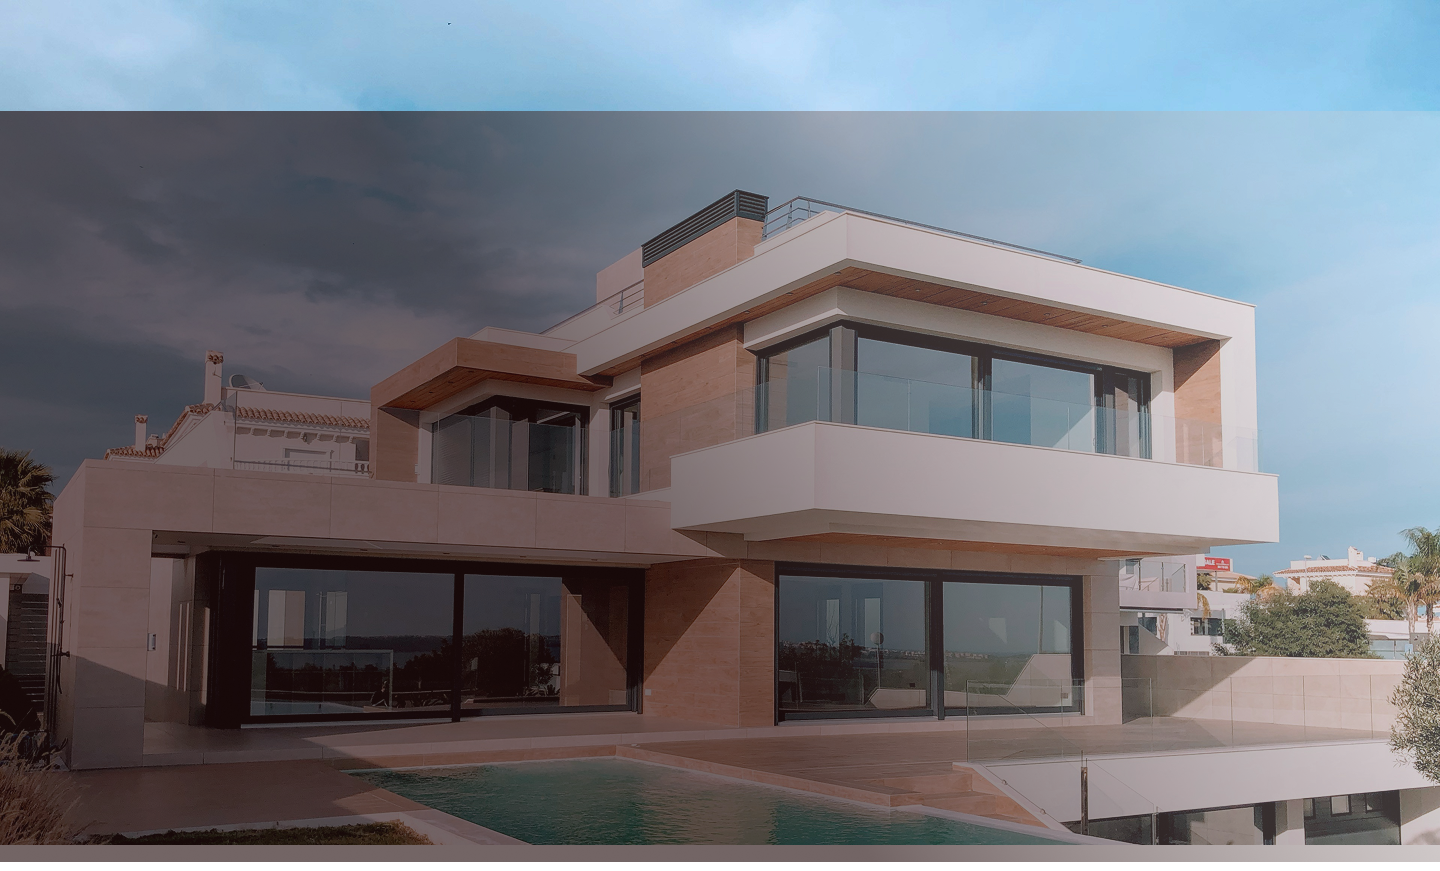
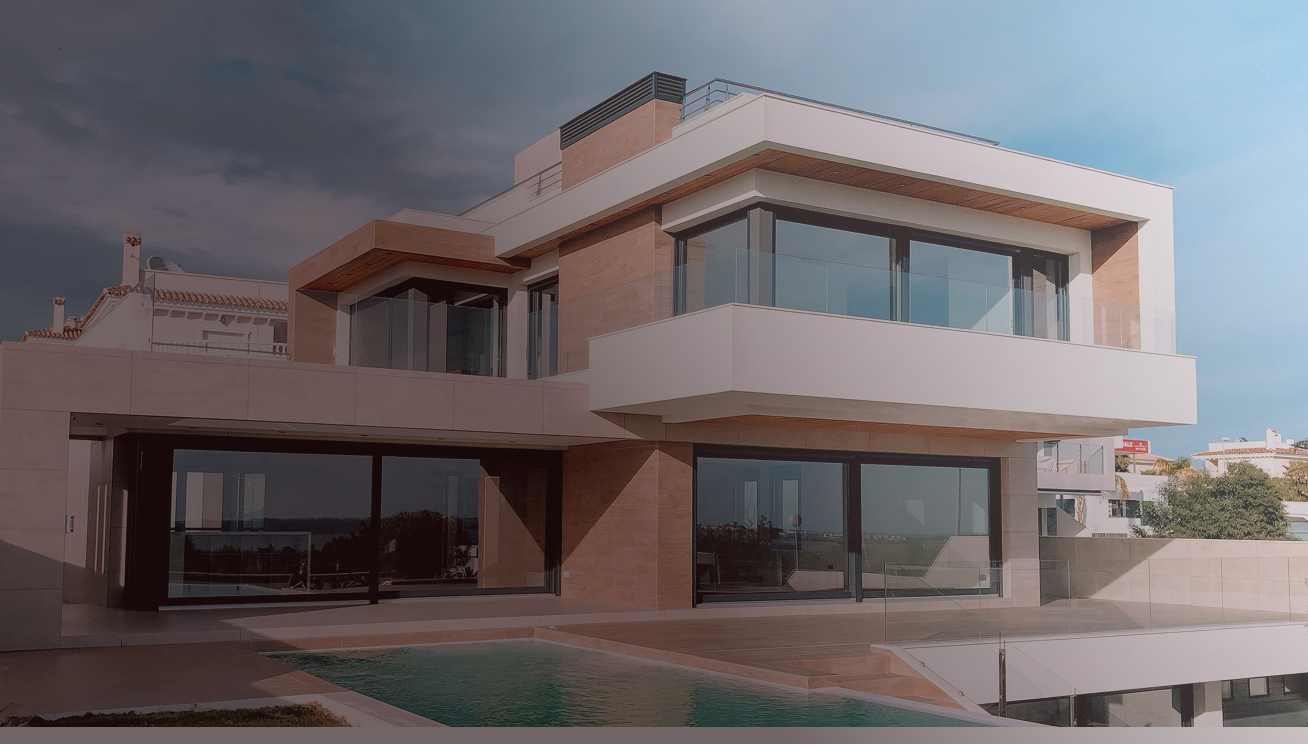
Updated frontend UI

diff --git a/frontend/style.css b/frontend/style.css
@@ -24,13 +24,15 @@ header {
   height: 11vh;
 }
 
-header div {
-  width: 100x;
-  height: 40px;
+.logo {
+  min-width: 100px;
+  max-width: 350px;
+  height: 65%;
 
   img {
     width: 100%;
     height: 100%;
+    object-fit: cover;
   }
 }
 
@@ -125,9 +127,9 @@ header nav ul {
   background-size: cover;
   background-position: center bottom;
   width: 100%;
-  height: 110vh;
+  height: 100vh;
   color: #ffffff;
-  margin-top: -2rem;
+  margin-top: 1rem;
   padding-top: 6rem;
   padding-left: 4.5rem;
   display: flex;
@@ -141,14 +143,14 @@ header nav ul {
     height: fit-content;
 
     h1 {
-      font-size: 3.5rem;
-      line-height: 4.5rem;
+      font-size: 3.2rem;
+      line-height: 4rem;
     }
 
     p {
       margin-top: 2rem;
-      font-size: 1.6rem;
-      line-height: 2.3rem;
+      font-size: 1.4rem;
+      line-height: 2.1rem;
       font-weight: 400;
     }
   }
@@ -157,7 +159,7 @@ header nav ul {
 .move-prediction-btn {
   background-color: #dc2323;
   font-weight: 700;
-  font-size: 1.8rem;
+  font-size: 1.5rem;
   color: #ffffff;
   padding: 1rem 2rem;
   border: none;
@@ -409,14 +411,21 @@ footer {
 /* Styles for screens smaller than 768px (e.g., mobile) */
 @media only screen and (max-width: 767px) {
   header {
-    height: 10vh;
+    height: 9vh;
+  }
+
+  .logo {
+    img {
+      width: 100%;
+      height: 100%;
+    }
   }
 
   .home {
-    margin-top: -2rem;
+    margin-top: 1rem;
     padding: 1rem;
     display: flex;
-    height: 107vh;
+    height: 100vh;
     align-items: center;
     justify-content: end;
     padding-bottom: 9rem;
@@ -636,14 +645,20 @@ footer {
 }
 
 /* Styles for screens between 768px and 1024px (e.g., tablet) */
-@media only screen and (min-width: 768px) and (max-width: 1023px) {
+@media only screen and (min-width: 768px) and (max-width: 1200px) {
   header {
-    height: 10vh;
+    height: 9vh;
+  }
+
+  .logo {
+    img {
+      width: 100%;
+      height: 100%;
+    }
   }
 
   .home {
-    height: 105vh;
-    margin-top: -2rem;
+    height: 100vh;
     padding-bottom: 7rem;
 
     div {
@@ -651,14 +666,14 @@ footer {
       height: fit-content;
 
       h1 {
-        font-size: 3.5rem;
-        line-height: 4.5rem;
+        font-size: 3.8rem;
+        line-height: 4.8rem;
       }
 
       p {
         margin-top: 2rem;
-        font-size: 1.8rem;
-        line-height: 2.3rem;
+        font-size: 2rem;
+        line-height: 2.5rem;
         font-weight: 400;
         margin-bottom: 3rem;
       }
@@ -668,7 +683,7 @@ footer {
   button {
     padding: 10px 15px;
     font-weight: 500;
-    font-size: 1rem;
+    font-size: 1.2rem;
     margin-top: 20px;
     background-color: #dc2323;
     color: white;
@@ -744,5 +759,3 @@ footer {
     width: 90%;
   }
 }
-
-/* // tftdftatfstyfatftsafsaffstaftfst */

diff --git a/frontend/index.html b/frontend/index.html
@@ -2,6 +2,7 @@
 <html lang="en">
   <head>
     <meta charset="UTF-8" />
+    <meta name="viewport" content="width=device-width, initial-scale=1.0" />
     <link rel="icon" type="image/png" href="./assets/logo-icon-flex.png" />
     <link rel="preconnect" href="https://fonts.googleapis.com" />
     <link rel="preconnect" href="https://fonts.gstatic.com" crossorigin />
@@ -10,7 +11,6 @@
       rel="stylesheet"
     />
     <link rel="stylesheet" href="style.css" />
-    <meta name="viewport" content="width=device-width, initial-scale=1.0" />
     <title>PriceLens</title>
   </head>
   <body>
@@ -85,11 +85,14 @@
         </div>
 
         <div class="form-group">
-          <label for="parkingSpace">Parking Space</label>
-          <select name="parkingSpace" id="parkingSpace">
-            <option value="Yes">Yes</option>
-            <option value="No">No</option>
-          </select>
+          <label for="parkingSpace">Number of Parking Space</label>
+          <input
+            type="number"
+            id="parkingSpace"
+            name="parkingSpace"
+            required
+            min="0"
+          />
         </div>
 
         <div class="form-group">

diff --git a/frontend/script.js b/frontend/script.js
@@ -71,7 +71,7 @@ form.addEventListener("submit", function (e) {
     type: data.type,
     address: `${data.town}, ${data.state}`,
     price: Math.floor(Math.random() * 100000000) + 5000000, // Simulated price
-    description: `A ${data.bedroom}-bedroom, ${data.bathroom}-bathroom ${data.type} located in ${data.town}, ${data.state}, suitable for ${data.usage.toLowerCase()}. Lorem ipsum dolor sit amet consectetur adipisicing elit. Repudiandae dicta nemo aspernatur voluptates, officiis est maxime odit quas autem consectetur dolor.`,
+    description: `A ${data.bedroom}-bedroom, ${data.bathroom}-bathroom ${data.type} located in ${data.town}, ${data.state}, with ${data.parkingSpace} parking space(s), suitable for ${data.usage.toLowerCase()}. Lorem ipsum dolor sit amet consectetur adipisicing elit...`,
   };
 
   modalType.textContent = result.type;

diff --git a/frontend/about.html b/frontend/about.html
@@ -2,6 +2,7 @@
 <html lang="en">
   <head>
     <meta charset="UTF-8" />
+    <meta name="viewport" content="width=device-width, initial-scale=1.0" />
     <link rel="icon" type="image/png" href="/assets/logo-icon-flex.png" />
     <link rel="preconnect" href="https://fonts.googleapis.com" />
     <link rel="preconnect" href="https://fonts.gstatic.com" crossorigin />
@@ -14,8 +15,6 @@
       href="https://cdnjs.cloudflare.com/ajax/libs/font-awesome/6.4.0/css/all.min.css"
     />
     <link rel="stylesheet" href="style.css" />
-    <meta name="viewport" content="width=device-width, initial-scale=1.0" />
-
     <title>PriceLens</title>
   </head>
   <body>
